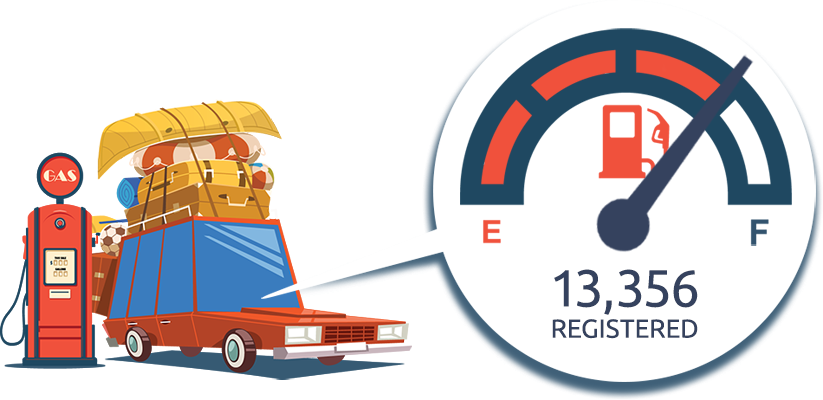
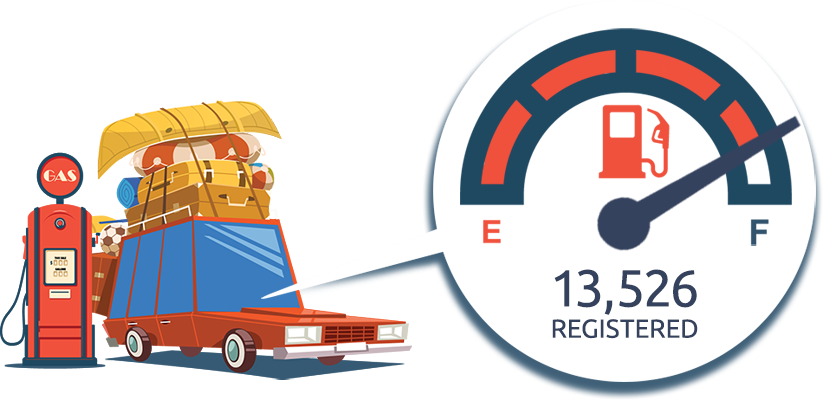
count update

diff --git a/summer-reading/registration/index.html b/summer-reading/registration/index.html
@@ -442,7 +442,7 @@ height="0" width="0" style="display:none;visibility:hidden"></iframe>
         <div class="box-one">
           <h4 class="black roboto no-margin-top">Help us meet our community goal of 16,775 people signed up!</h4>
           <div>If we meet our goal, the Douglas County Libraries Foundation will donate $500 to Nature’s Educators, a top-rated nonprofit educational wildlife organization in Douglas County. </div>
-          <div class="margin-10"><span class="odometer">1</span><span class="odometer">3</span><span class="font-weight-500 black">,</span><span class="odometer">3</span><span class="odometer">5</span><span class="odometer">6</span></div>
+          <div class="margin-10"><span class="odometer">1</span><span class="odometer">3</span><span class="font-weight-500 black">,</span><span class="odometer">5</span><span class="odometer">2</span><span class="odometer">6</span></div>
           <div class="small text-uppercase">Registered</div>
         </div>
         <div class="box-two">

diff --git a/index.html b/index.html
@@ -441,7 +441,7 @@ height="0" width="0" style="display:none;visibility:hidden"></iframe>
               <p>If we meet our goal...</p>
               <p>the Douglas County Libraries Foundation...</p>
               <p>will donate $500 to Nature’s Educators.</p>
-              <p>We only need 3,419 more earthlings to sign up.</p>
+              <p>We only need 3,249 more earthlings to sign up.</p>
               <p><a style="color:#fff;" href="summer-reading/">Register Now!</a></p>
             </div>
             <span id="typed" style="white-space:pre;"></span> </div>

diff --git a/adult-education/index.html b/adult-education/index.html
@@ -466,7 +466,7 @@ height="0" width="0" style="display:none;visibility:hidden"></iframe>
       </div>
     </div>
   </div>
-  <div class="row bg-loquacious text-center padding-top-15 padding-bottom-30">
+  <div class="row bg-teal text-center padding-top-15 padding-bottom-30">
     <div class="container">
       <h2><a class="white" href="../volunteer/">I want to be an adult literacy volunteer!</a></h2>
     </div>
